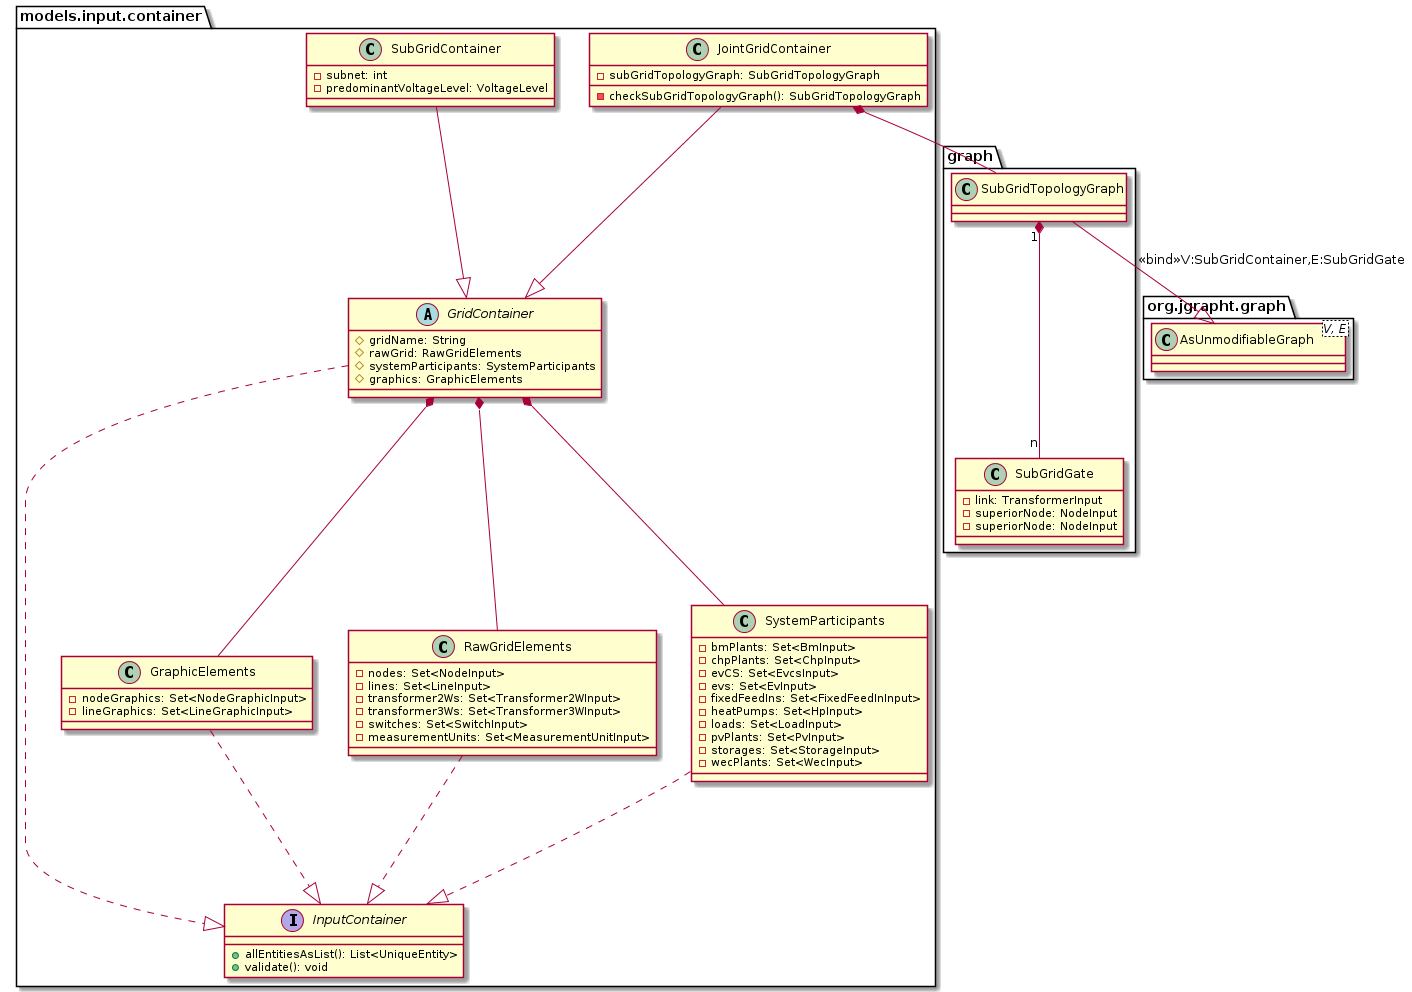
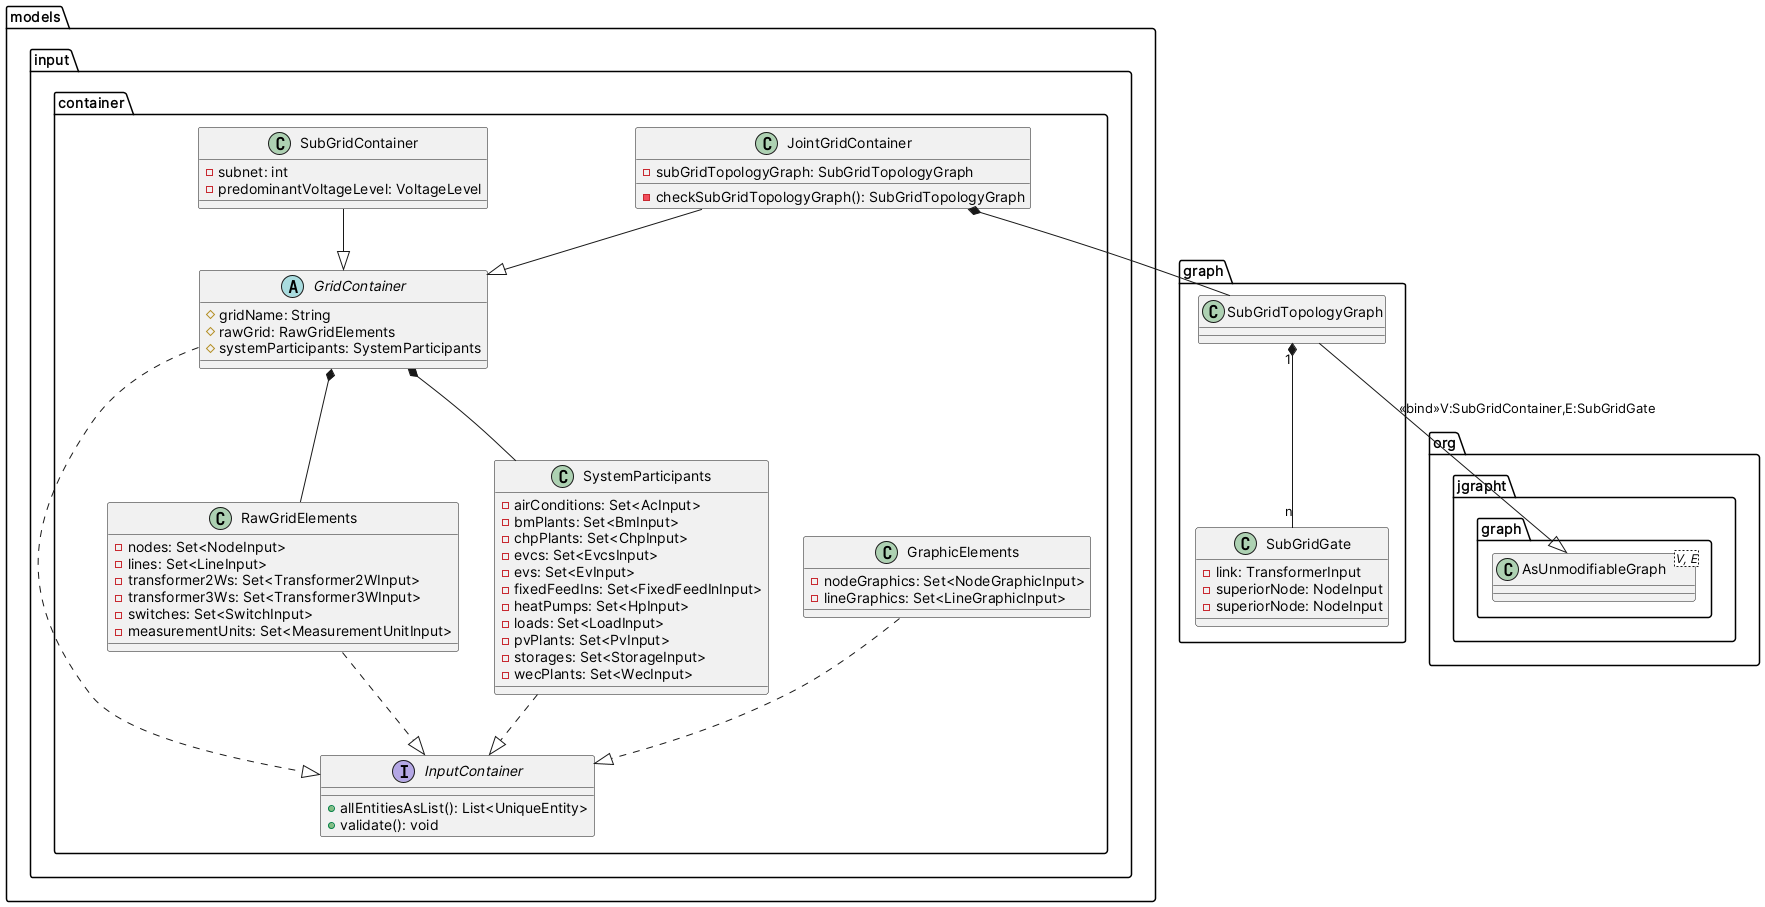
Adapt documentation

diff --git a/docs/readthedocs/models/input/grid/gridcontainer.md b/docs/readthedocs/models/input/grid/gridcontainer.md
@@ -56,10 +56,6 @@ A synoptic overview of both classes' attributes is given here:
      - –
      - see below
 
-   * - graphics
-     - –
-     - see below
-
    * - subGridTopologyGraph
      - –
      - topology of sub grids - only
@@ -103,13 +99,6 @@ This sub container simply holds:
 - [wind energy converters](/models/input/participant/wec)
 
 and the needed nested thermal models.
-
-
-### Graphics
-This sub container simply holds:
-
-* [schematic node graphics](/models/input/grid/nodegraphic)
-* [schematic line graphics](/models/input/grid/linegraphic)
 
 
 ## Container Concept
